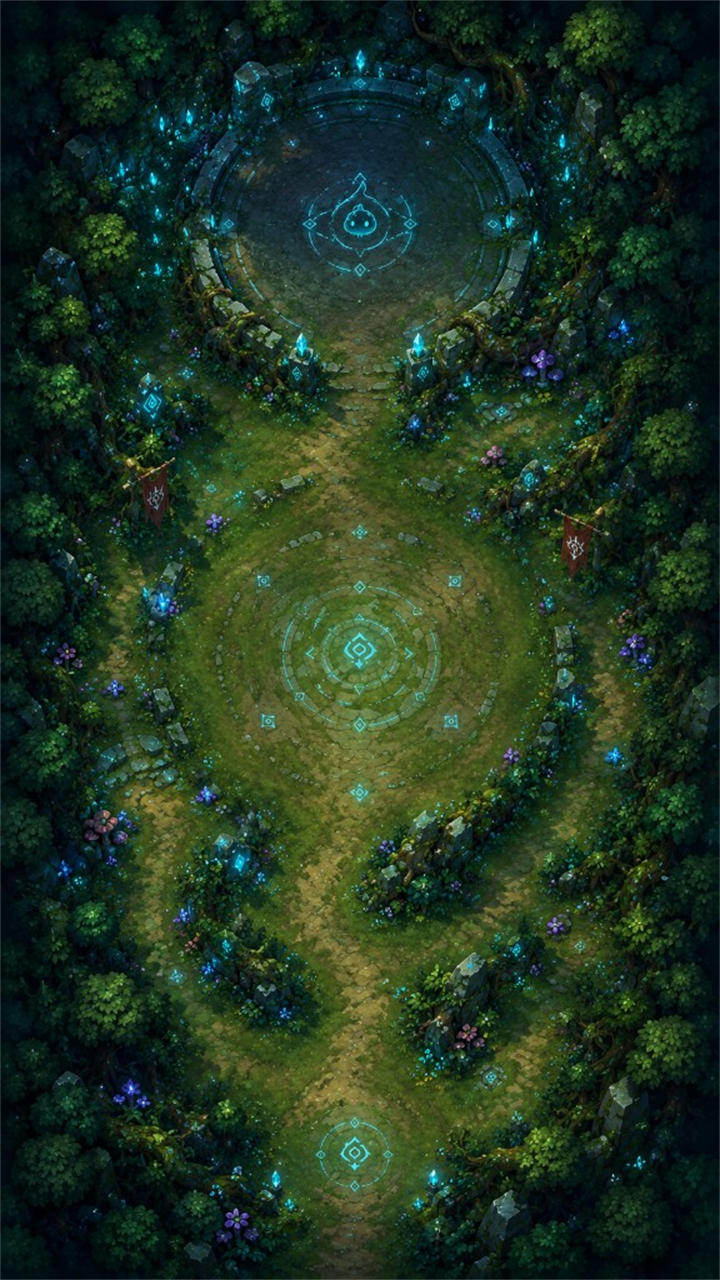
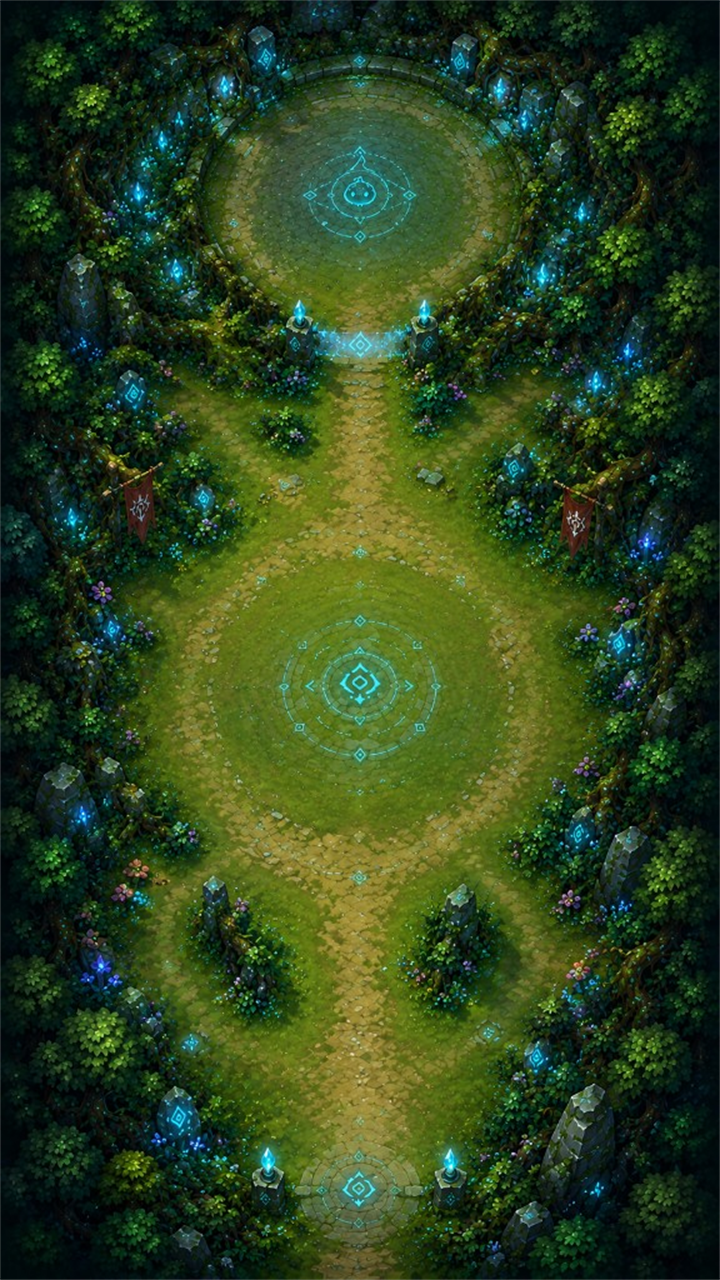
Stage 1: nouvelle map gameplay et collisions fluides (cercle clairière).
- Image 720x1280 remplacée (nouveau fond plus lisible)

- Walkable: rects + nouveau support walkableCircles (clairière centrale)

- Zones recalibrées larges, voile lisibilité 0.18, debug F2 enrichi

- Vagues stoppées pendant le combat boss

diff --git a/www/play/js/adventure-world.js b/www/play/js/adventure-world.js
@@ -7,24 +7,29 @@ function dist(ax, ay, bx, by) {
   return Math.hypot(ax - bx, ay - by);
 }
 
-/** Stage 1 — Clairière Runique: aligned to stage_01_gameplay_map.png (720×1280). */
+/** Stage 1 — Clairière Runique: aligned to stage_01_gameplay_map.png (720×1280).
+ *  Wide open layout: rects for paths, a big circle for the main clearing, and a
+ *  circular boss arena up top. No collisions on inner decorations.
+ */
 export const STAGE_01_WORLD = {
   id: 1,
   worldWidth: 720,
   worldHeight: 1280,
-  playerSpawn: { x: 360, y: 1210 },
-  bossArena: { x: 360, y: 180, radius: 220 },
-  bossPortalBarrier: { y: 418, xMin: 278, xMax: 442 },
+  playerSpawn: { x: 360, y: 1200 },
+  bossArena: { x: 360, y: 200, radius: 210 },
+  bossPortalBarrier: { y: 410, xMin: 280, xMax: 440 },
   bossUnlock: {
     minSurvivalMs: 45_000,
     minKills: 22,
     enterRadius: 300,
   },
   walkableRects: [
-    { x: 200, y: 1060, w: 320, h: 220, zone: "spawn" },
-    { x: 275, y: 820, w: 170, h: 290, zone: "path_lower" },
-    { x: 50, y: 490, w: 620, h: 410, zone: "clearing" },
-    { x: 285, y: 405, w: 150, h: 130, zone: "runes" },
+    { x: 180, y: 1080, w: 360, h: 200, zone: "spawn" },
+    { x: 175, y: 900, w: 370, h: 210, zone: "lower_link" },
+    { x: 230, y: 380, w: 260, h: 130, zone: "boss_approach" },
+  ],
+  walkableCircles: [
+    { x: 360, y: 760, radius: 260, zone: "main_clearing" },
   ],
   theme: "forest",
   backgroundAsset: "assets/adventure/stage-01/backgrounds/stage_01_gameplay_map.png",
@@ -57,7 +62,13 @@ export function defaultAdventureWorld(stageId) {
 
 export function getAdventureWorldConfig(stageId) {
   const id = Number(stageId);
-  if (id === 1) return { ...STAGE_01_WORLD, walkableRects: STAGE_01_WORLD.walkableRects.map((r) => ({ ...r })) };
+  if (id === 1) {
+    return {
+      ...STAGE_01_WORLD,
+      walkableRects: STAGE_01_WORLD.walkableRects.map((r) => ({ ...r })),
+      walkableCircles: (STAGE_01_WORLD.walkableCircles || []).map((c) => ({ ...c })),
+    };
+  }
   return defaultAdventureWorld(id);
 }
 
@@ -69,7 +80,7 @@ export function isInsideBossArena(world, x, y, margin = 0) {
 
 export function isWalkable(world, x, y, margin = 0, { allowBossArena = false } = {}) {
   if (!world) return true;
-  const { walkableRects, bossArena } = world;
+  const { walkableRects, walkableCircles, bossArena } = world;
   for (const r of walkableRects || []) {
     if (
       x >= r.x + margin &&
@@ -79,6 +90,9 @@ export function isWalkable(world, x, y, margin = 0, { allowBossArena = false } =
     ) {
       return true;
     }
+  }
+  for (const c of walkableCircles || []) {
+    if (dist(x, y, c.x, c.y) <= c.radius - margin) return true;
   }
   if (allowBossArena && bossArena && isInsideBossArena(world, x, y, margin)) {
     return true;
@@ -144,13 +158,26 @@ export function constrainMove(
 }
 
 export function randomWalkablePoint(world, rand, margin = 24) {
-  if (!world?.walkableRects?.length) {
+  const rects = world?.walkableRects || [];
+  const circles = world?.walkableCircles || [];
+  if (!rects.length && !circles.length) {
     return { x: world?.worldWidth / 2 || 180, y: world?.worldHeight / 2 || 320 };
   }
+  const total = rects.length + circles.length;
   for (let attempt = 0; attempt < 40; attempt++) {
-    const rect = world.walkableRects[Math.floor(rand() * world.walkableRects.length)];
-    const x = rect.x + margin + rand() * Math.max(1, rect.w - margin * 2);
-    const y = rect.y + margin + rand() * Math.max(1, rect.h - margin * 2);
+    const pick = Math.floor(rand() * total);
+    let x, y;
+    if (pick < rects.length) {
+      const rect = rects[pick];
+      x = rect.x + margin + rand() * Math.max(1, rect.w - margin * 2);
+      y = rect.y + margin + rand() * Math.max(1, rect.h - margin * 2);
+    } else {
+      const c = circles[pick - rects.length];
+      const a = rand() * Math.PI * 2;
+      const r = rand() * Math.max(1, c.radius - margin);
+      x = c.x + Math.cos(a) * r;
+      y = c.y + Math.sin(a) * r;
+    }
     if (isWalkable(world, x, y, margin)) return { x, y };
   }
   return { ...world.playerSpawn };

diff --git a/www/play/js/game.js b/www/play/js/game.js
@@ -472,7 +472,7 @@ export class YSkillSurvivorGame {
       this.player.y = clamp(ny, PLAYER_R, this.worldH - PLAYER_R);
     }
 
-    if (!this._bossSpawned) {
+    if (!this._bossSpawned && !this._bossFightLocked) {
       this.spawnTimer -= dt;
       const spawnEvery = Math.max(220, 1100 / diff);
       const maxEnemies = Math.min(50, Math.floor(14 + diff * 10));
@@ -1024,7 +1024,7 @@ export class YSkillSurvivorGame {
     }
 
     if (this.running) {
-      ctx.fillStyle = "rgba(4, 8, 12, 0.2)";
+      ctx.fillStyle = "rgba(3, 8, 10, 0.18)";
       ctx.fillRect(0, 0, w, h);
     }
   }
@@ -1099,6 +1099,22 @@ export class YSkillSurvivorGame {
       ctx.fillStyle = "rgba(255, 255, 255, 0.85)";
       ctx.textAlign = "left";
       ctx.fillText(r.zone || "zone", r.x + 4, r.y + 12);
+    }
+
+    for (const c of this.worldConfig?.walkableCircles || []) {
+      ctx.fillStyle = zoneColors[c.zone] || "rgba(34, 197, 94, 0.22)";
+      ctx.beginPath();
+      ctx.arc(c.x, c.y, c.radius, 0, Math.PI * 2);
+      ctx.fill();
+      ctx.strokeStyle = "rgba(255, 255, 255, 0.45)";
+      ctx.lineWidth = 1;
+      ctx.beginPath();
+      ctx.arc(c.x, c.y, c.radius, 0, Math.PI * 2);
+      ctx.stroke();
+      ctx.font = "10px monospace";
+      ctx.fillStyle = "rgba(255, 255, 255, 0.85)";
+      ctx.textAlign = "center";
+      ctx.fillText(c.zone || "circle", c.x, c.y - c.radius + 12);
     }
 
     const ba = this.worldConfig?.bossArena;
@@ -1251,12 +1267,19 @@ export class YSkillSurvivorGame {
   _drawScreenOverlay(ctx) {
     if (this._collisionDebug && this.worldConfig) {
       const cam = this.camera;
+      const u = this.worldConfig.bossUnlock || {};
+      const remainSec = Math.max(0, Math.ceil(((u.minSurvivalMs || 0) - this.elapsedMs) / 1000));
+      const remainKills = Math.max(0, (u.minKills || 0) - this.kills);
+      let portalState = "sealed";
+      if (this._bossFightLocked) portalState = "boss fight";
+      else if (this._bossArenaUnlocked) portalState = "open";
       const lines = [
         "DEBUG COLLISIONS (F2)",
         `Joueur: ${Math.round(this.player.x)}, ${Math.round(this.player.y)}`,
         cam ? `Caméra: ${Math.round(cam.x)}, ${Math.round(cam.y)}` : "",
-        `Portail boss: ${this._bossArenaUnlocked ? "OUVERT" : "VERROUILLÉ"}`,
-        this._bossFightLocked ? "Combat boss: VERROUILLÉ" : "Combat boss: libre",
+        `Portail: ${portalState}`,
+        `Kills: ${this.kills} (besoin -${remainKills})`,
+        `Temps avant ouverture: ${remainSec}s`,
       ].filter(Boolean);
       ctx.font = "11px monospace";
       ctx.textAlign = "left";
